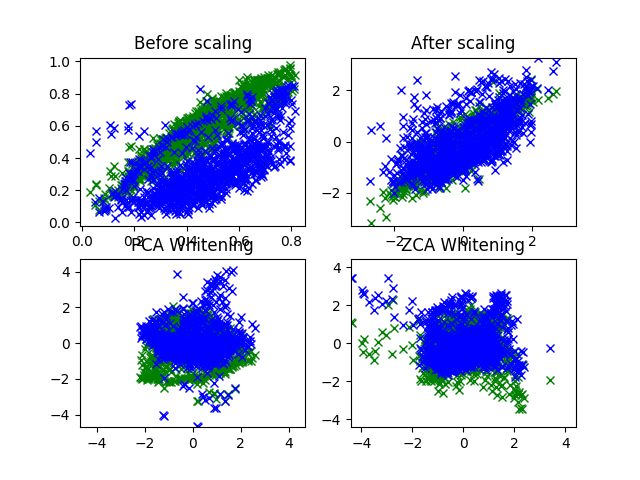
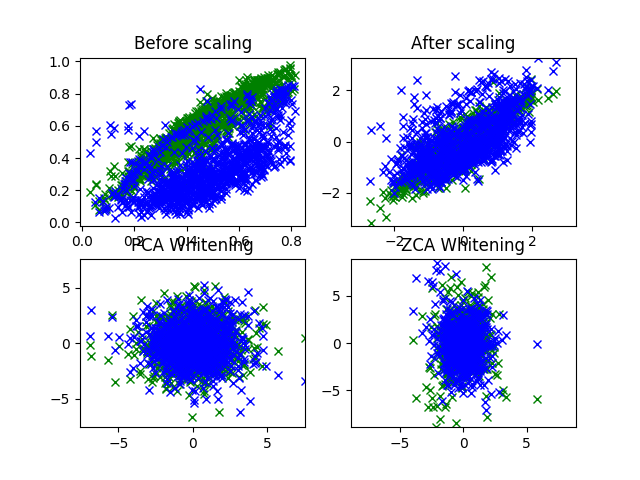
refine post for zca/pca whitening

diff --git a/_posts/2018-03-28-cifar10-whitening.md b/_posts/2018-03-28-cifar10-whitening.md
@@ -5,7 +5,7 @@ categories: ai
 ---
 
 前回は
-[Keras+CNNでCIFAR-10の画像分類](ai/2018/03/25/cifer10-cnn1.html) をしてみたが、
+[Keras+CNNでCIFAR-10の画像分類](/ai/2018/03/25/cifer10-cnn1.html) をしてみたが、
 学習後のクラス判別精度が 71 % といまいちだった。
 
 この精度を上げるため、データの前処理を勉強してみる。
@@ -306,7 +306,7 @@ $$
 P = D^{-1/2} \ E^{\mathrm{T}}
 $$
 
-PCA 分析については次回に譲る。
+PCA 分析についてはまた今度ということにする。
 
 PCAの実装は次のようになった。
 
@@ -315,6 +315,8 @@ class PCAWhitening:
   def __init__(self, epsilon=1E-6):
     self.epsilon = epsilon
     self.mean = None
+    self.eigenvalue = None
+    self.eigenvector = None
     self.pca = None
   
   def fit(self, x):
@@ -323,6 +325,8 @@ class PCAWhitening:
     cov = np.dot(x_.T, x_) / x_.shape[0]
     E, D, _ = np.linalg.svd(cov)
     D = np.sqrt(D) + self.epsilon
+    self.eigenvalue = D
+    self.eigenvector = E
     self.pca = np.dot(np.diag(1. / D), E.T)
     return self
             
@@ -331,16 +335,26 @@ class PCAWhitening:
     return np.dot(x_, self.pca.T)
 ```
 
-使ってみる。
+固有値、固有ベクトルの計算にはSVDのライブラリを使った。
+参考サイトのまねである。
+
+SVD(Singular value decomposition)は特異値分解といい、
+行列の対角化を行うところや、次元数削減のために利用する点がPCA分析と似ている。
+
+ともかく、上記の $ E $、$ D $ を求める計算では対角化を行うため、
+SVDのライブラリが割とそのまま使える模様。
+
+作った `PCAWhitening` を以下のようにして使う。
+
+少し悩んだが、一枚の画像の全ピクセルのRGBを1列の展開し、
+特徴量として渡してやるのが正解のようだ。
 
 ```
-x_pcaw = np.zeros(x_train.shape)
-for i in range(0, x_train.shape[0]):
-  x_shape = x_train.shape
-  x = x_train[i,:,:,:].reshape(x_shape[1] * x_shape[2], x_shape[3])
-  zcaw = PCAWhitening().fit(x)
-  x_ = zcaw.transform(x)
-  x_pcaw[i,:,:,:] = x_.reshape(x_shape[1:])
+x_pcaw = x_train.reshape(x_train.shape[0], -1)
+print('x_pcaw.shape=' + str(x_pcaw.shape))
+# x_pcaw.shape(50000, 3072)
+pcaw = PCAWhitening().fit(x_pcaw)
+x_pcaw = pcaw.transform(x_pcaw).reshape(x_train.shape)
 
 plt.clf()
 for i in range(0, 16):
@@ -356,10 +370,70 @@ for i in range(0, 16):
 plt.savefig('cifar10_pcaw.png')
 ```
 
+出力は図3.1のようになった。
+左右に隣接する画像が2枚ずつペアで、左側が元画像、右側がPCA白色化した結果。
+
+もはやなんだかわからないが、PCA白色化というのはそういうものらしい。
+本によると「自然画像は一般に低い周波数成分ほど値が大きい特徴があり、PCA白色化はこれをキャンセルする」とのこと。
+
 ![CIFAR-10 PCA Whitening](/images/plots/2018-03-29-cifar10-pcaw.png)
 
 *図 3.1. CIFAR-10画像のPCA白色化*
 
+フィルタをプロットしてみる。
+
+```
+print('pcaw.pca.shape=' + str(pcaw.pca.shape))
+# pcaw.pca.shape=(3072, 3072)
+img = pcaw.pca
+vmin = np.min(img, axis=0)
+vmax = np.max(img, axis=0)
+img = (img - vmin) / (vmax - vmin)
+
+plt.clf()
+for i in range(0, 24):
+  plt.subplot(4, 6, i+1)
+  fig = plt.imshow(img[i*128,:].reshape(32, 32, 3))
+  fig.axes.get_xaxis().set_visible(False)
+  fig.axes.get_yaxis().set_visible(False)
+
+plt.savefig('cifar10-pca-filter.png')
+```
+
+
+なんか細かくウニャッとしている。
+期待していてものと違うものがでている気がしないでもないが、今回はこれでいいことにする。
+
+細かいウネウネが高周波成分を強調する役割をしていると考えられる。
+
+![CIFAR-10 PCA Filter](/images/plots/2018-03-29-cifar10-pcaw-filter.png)
+
+*図3.2. CIFAR-10画像のPCA白色化フィルタ*
+
+あと、少しPCA分析(主成分分析)もしてみる。
+
+PCA白色化の処理の途中で、固有ベクトル、固有値が計算されている。
+固有値は大きい順に並んでいて、対応する固有ベクトルの寄与率がわかる。
+
+せっかくだから寄与率を計算してみる。
+
+```
+explained_variance_ratio = pcaw.eigenvalue / np.sum(pcaw.eigenvalue)
+explained_variance = np.cumsum(explained_variance_ratio)
+
+plt.clf()
+plt.plot(np.arange(1, explained_variance.shape[0]+1, 1.0), explained_variance)
+plt.savefig('cifar10-pca-explained_variance.png')
+
+print('explained_variance[1536]=' + str(explained_variance[1536]))
+# explained_variance[1536]=0.94648
+```
+
+![CIFAR-10 PCA Explained variance](/images/plots/2018-03-29-cifar10-pca-explained-variance.png)
+
+*図 3.3. CIFAR-10画像のPCA分析 主成分の寄与率*
+
+全体の半分のデータ数があれば、データの特徴を95%くらい抑えられるようだ。
 
 #### ZCA 白色化
 
@@ -378,7 +452,7 @@ $$
 P = E \ D^{-1/2} \ E^{\mathrm{T}}
 $$
 
-ZCAの実装は以下のようになった。
+ZCAの実装はほぼPCAと同じで、以下のようになった。
 
 ```
 class ZCAWhitening:
@@ -404,13 +478,9 @@ class ZCAWhitening:
 使ってみる。
 
 ```
-x_zcaw = np.zeros(x_train.shape)
-for i in range(0, 32):
-  x_shape = x_train.shape
-  x = x_train[i,:,:,:].reshape(x_shape[1] * x_shape[2], x_shape[3])
-  zcaw = ZCAWhitening().fit(x)
-  x_ = zcaw.transform(x)
-  x_zcaw[i,:,:,:] = x_.reshape(x_shape[1:])
+x_zcaw = x_train.reshape(x_train.shape[0], -1)
+zcaw = ZCAWhitening().fit(x_zcaw)
+x_zcaw = zcaw.transform(x_zcaw).reshape(x_train.shape)
 
 plt.clf()
 for i in range(0, 16):
@@ -426,10 +496,46 @@ for i in range(0, 16):
 plt.savefig('cifar10_zcaw.png')
 ```
 
+出力は図3.4のようになった。
+PCA白色化と違い、これは何が起きているのか見て理解できそうだ。輪郭が強調されている。
+
 ![CIFAR-10 ZCA Whitening](/images/plots/2018-03-29-cifar10-zcaw.png)
 
-*図 3.2. CIFAR-10画像のZCA白色化*
+*図 3.4. CIFAR-10画像のZCA白色化*
 
+ZCA白色の変換を可視化してみると、
+各ピクセル、各色成分について隣との差分を強調するフィルタになっている様子が見られるらしい。
+
+```
+print('zcaw.zca.shape=' + str(zcaw.zca.shape))
+# zcaw.zca.shape=(3072, 3072)
+img = zcaw.zca
+vmin = np.min(img, axis=0)
+vmax = np.max(img, axis=0)
+img = (img - vmin) / (vmax - vmin)
+
+plt.clf()
+for i in range(0, 24):
+  plt.subplot(4, 6, i+1)
+  fig = plt.imshow(img[i,:].reshape(32, 32, 3)[0:8,0:8,0:3])
+  fig.axes.get_xaxis().set_visible(False)
+  fig.axes.get_yaxis().set_visible(False)
+
+plt.savefig('cifar10-zca-filter.png')
+```
+
+図 3.5がそれである。
+フィルタ3枚ずつが組になり、同じ位置に赤、緑、青の目が現れている。
+次の3枚では隣のピクセルに目が現われていて、やはり赤、緑、青の組合せである。
+
+また、目に隣接するピクセルは目の色の補色になっている。
+これが各ピクセル、各色成分について隣との差分を強調するフィルタの正体のようだ。
+
+![CIFAR-10 ZCA Filter](/images/plots/2018-03-29-cifar10-zca-filter.png)
+
+*図 3.5. CIFAR-10画像のZCA白色化フィルタ*
+
+なお、フィルタを見易くするために、左上8x8だけをプロットした。
 
 #### 計算時のテクニック
 
@@ -481,13 +587,14 @@ plot_rgb(x_zcaw)
 plt.savefig('cifar10_image_rgb2.png')
 ```
 
+出力は図3.6。
 正規化(右上)では斜め方向に伸びていることからRGBの相関があることが確認できたが、
 PCA白色化(左下)、ZCA白色化(右下)ではそれが見られなくなっている。
 白色化によって成分間の相関を除去できたといえそうだ。
 
 ![CIFAR-10 bird RGB分布](/images/plots/2018-03-29-cifar10-6-rgb2.png)
 
-*図 3.3. CIFAR-10 鳥画像のRGB分布比較*
+*図 3.6. CIFAR-10 鳥画像のRGB分布比較*
 
 ### 参考
 
